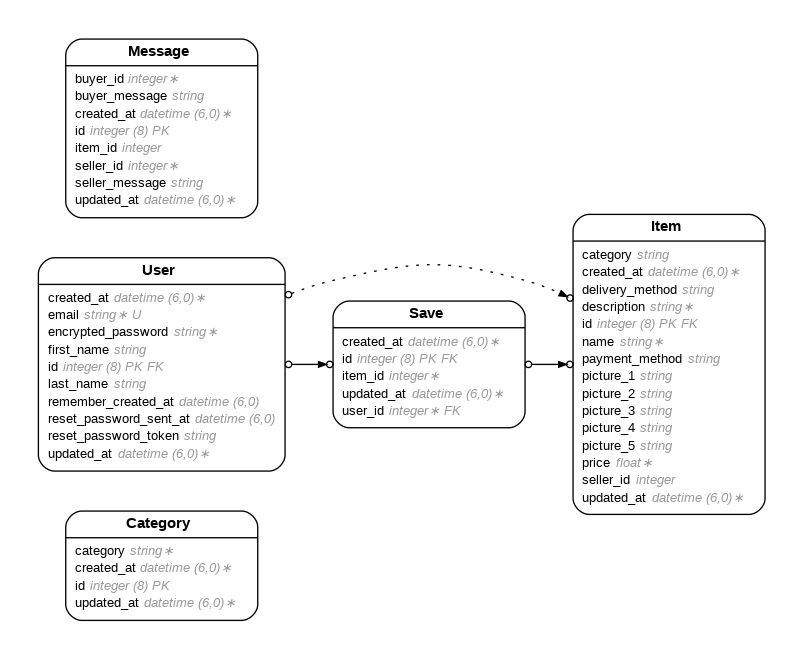
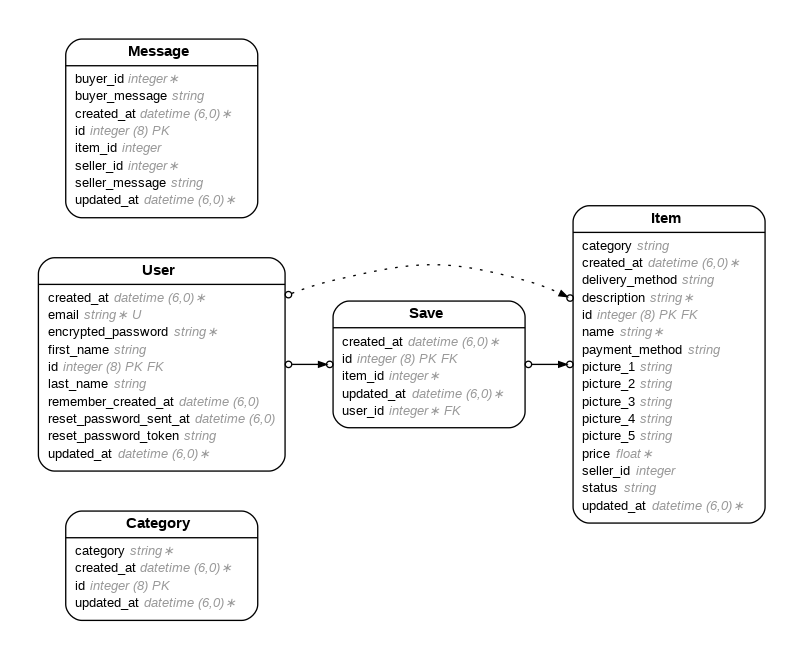
added status column to Item model

Changed region(s): [[0.7161, 0.3035, 0.9651, 0.7891]]

diff --git a/db/schema.rb b/db/schema.rb
@@ -10,7 +10,7 @@
 #
 # It's strongly recommended that you check this file into your version control system.
 
-ActiveRecord::Schema[7.1].define(version: 2025_05_26_092605) do
+ActiveRecord::Schema[7.1].define(version: 2025_05_29_201841) do
   # These are extensions that must be enabled in order to support this database
   enable_extension "plpgsql"
 
@@ -35,6 +35,7 @@ ActiveRecord::Schema[7.1].define(version: 2025_05_26_092605) do
     t.datetime "created_at", null: false
     t.datetime "updated_at", null: false
     t.string "name"
+    t.string "status"
   end
 
   create_table "messages", force: :cascade do |t|

diff --git a/app/models/item.rb b/app/models/item.rb
@@ -14,6 +14,7 @@
 #  picture_4       :string
 #  picture_5       :string
 #  price           :float
+#  status          :string
 #  created_at      :datetime         not null
 #  updated_at      :datetime         not null
 #  seller_id       :integer
@@ -22,6 +23,7 @@ class Item < ApplicationRecord
   validates(:name, presence: true)
   validates(:description, presence: true)
   validates(:price, presence: true)
+  validates(:status, presence: true)
   validates(:price, numericality: true)
   mount_uploader :picture_1, Picture1Uploader
   mount_uploader :picture_2, Picture2Uploader

diff --git a/db/migrate/20250529201841_add_status_to_items.rb b/db/migrate/20250529201841_add_status_to_items.rb
@@ -1,0 +1,5 @@
+class AddStatusToItems < ActiveRecord::Migration[7.1]
+  def change
+    add_column :items, :status, :string
+  end
+end
